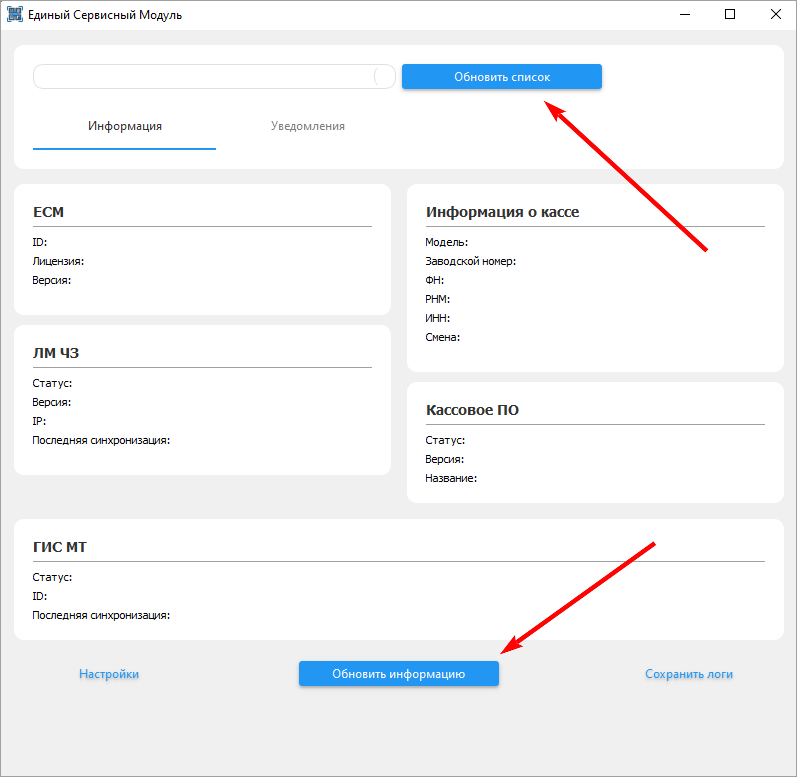
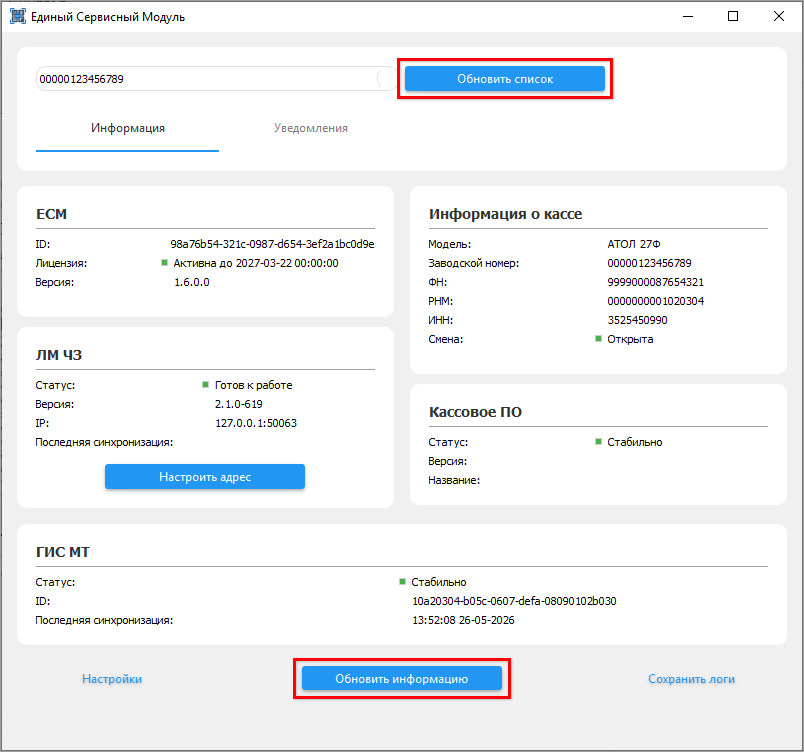
Совет «Не проходит проверка кода маркировки в разрешительном режиме» (Katya): скриншот ЕСМ с заполненными данными кассы (из черновых скриншотов ТС ПИоТ, с тонкой рамкой); в шаге 1 – проверка данных кассы и открытой смены вместо «все статусы зеленые» (Катя, 21.10.2026).

diff --git a/tips/5S AUTO/Маркировка/Не проходит проверка кода маркировки в разрешительном режиме/ne-prohodit-proverka-koda-markirovki-v-razreshitelnom-rezhime.md b/tips/5S AUTO/Маркировка/Не проходит проверка кода маркировки в разрешительном режиме/ne-prohodit-proverka-koda-markirovki-v-razreshitelnom-rezhime.md
@@ -16,7 +16,7 @@
 
 ## Решение
 
-1. Проверьте, что модуль ЕСМ запущен и видит кассу: откройте приложение «Настройка и управление» Единой сервисной платформы (окно «Единый сервисный модуль») и посмотрите блок «Информация о кассе» – в нем должны отображаться модель кассы, заводской номер, номер ФН и другие данные, а статусы в блоках – с зеленым индикатором (см. «[Настройка интеграции с ТС ПИоТ → Настройка взаимодействия драйвера ККТ с ЕСМ](https://kb.5systems.ru/articles/5s-auto/markirovka/nastroyka-integracii-s-ts-piot#statusy_podkl)»). Если ЕСМ не запущен – запустите его. Если блоки пустые, выполните шаги 2–5.
+1. Проверьте, что модуль ЕСМ запущен и видит кассу: откройте приложение «Настройка и управление» Единой сервисной платформы (окно «Единый сервисный модуль») и посмотрите блок «Информация о кассе» – в нем должны отображаться модель кассы, заводской номер, номер ФН и другие данные, а смена должна быть открыта (о статусах в окне ЕСМ – см. «[Настройка интеграции с ТС ПИоТ → Настройка взаимодействия драйвера ККТ с ЕСМ](https://kb.5systems.ru/articles/5s-auto/markirovka/nastroyka-integracii-s-ts-piot#statusy_podkl)»). Если ЕСМ не запущен – запустите его. Если блоки пустые, выполните шаги 2–5.
 2. Запустите тест драйвера ККТ и включите кассу:
 
    - для касс АТОЛ – установите флажок «Включено» в правом верхнем углу:
@@ -27,7 +27,7 @@
 
      ![«Настройка свойств» → «Проверка связи» в тесте драйвера ККТ «Штрих»](attachments/03-test-drayvera-shtrih-proverka-svyazi.png)
 
-3. В окне «Единый сервисный модуль» нажмите «Обновить список», затем «Обновить информацию» – в блоках должны появиться данные кассы:
+3. В окне «Единый сервисный модуль» нажмите «Обновить список», затем «Обновить информацию» – в блоке «Информация о кассе» должны появиться данные кассы:
 
    ![Кнопки «Обновить список» и «Обновить информацию» в ЕСМ](attachments/04-esm-obnovit-spisok-i-informaciyu.png)
 
